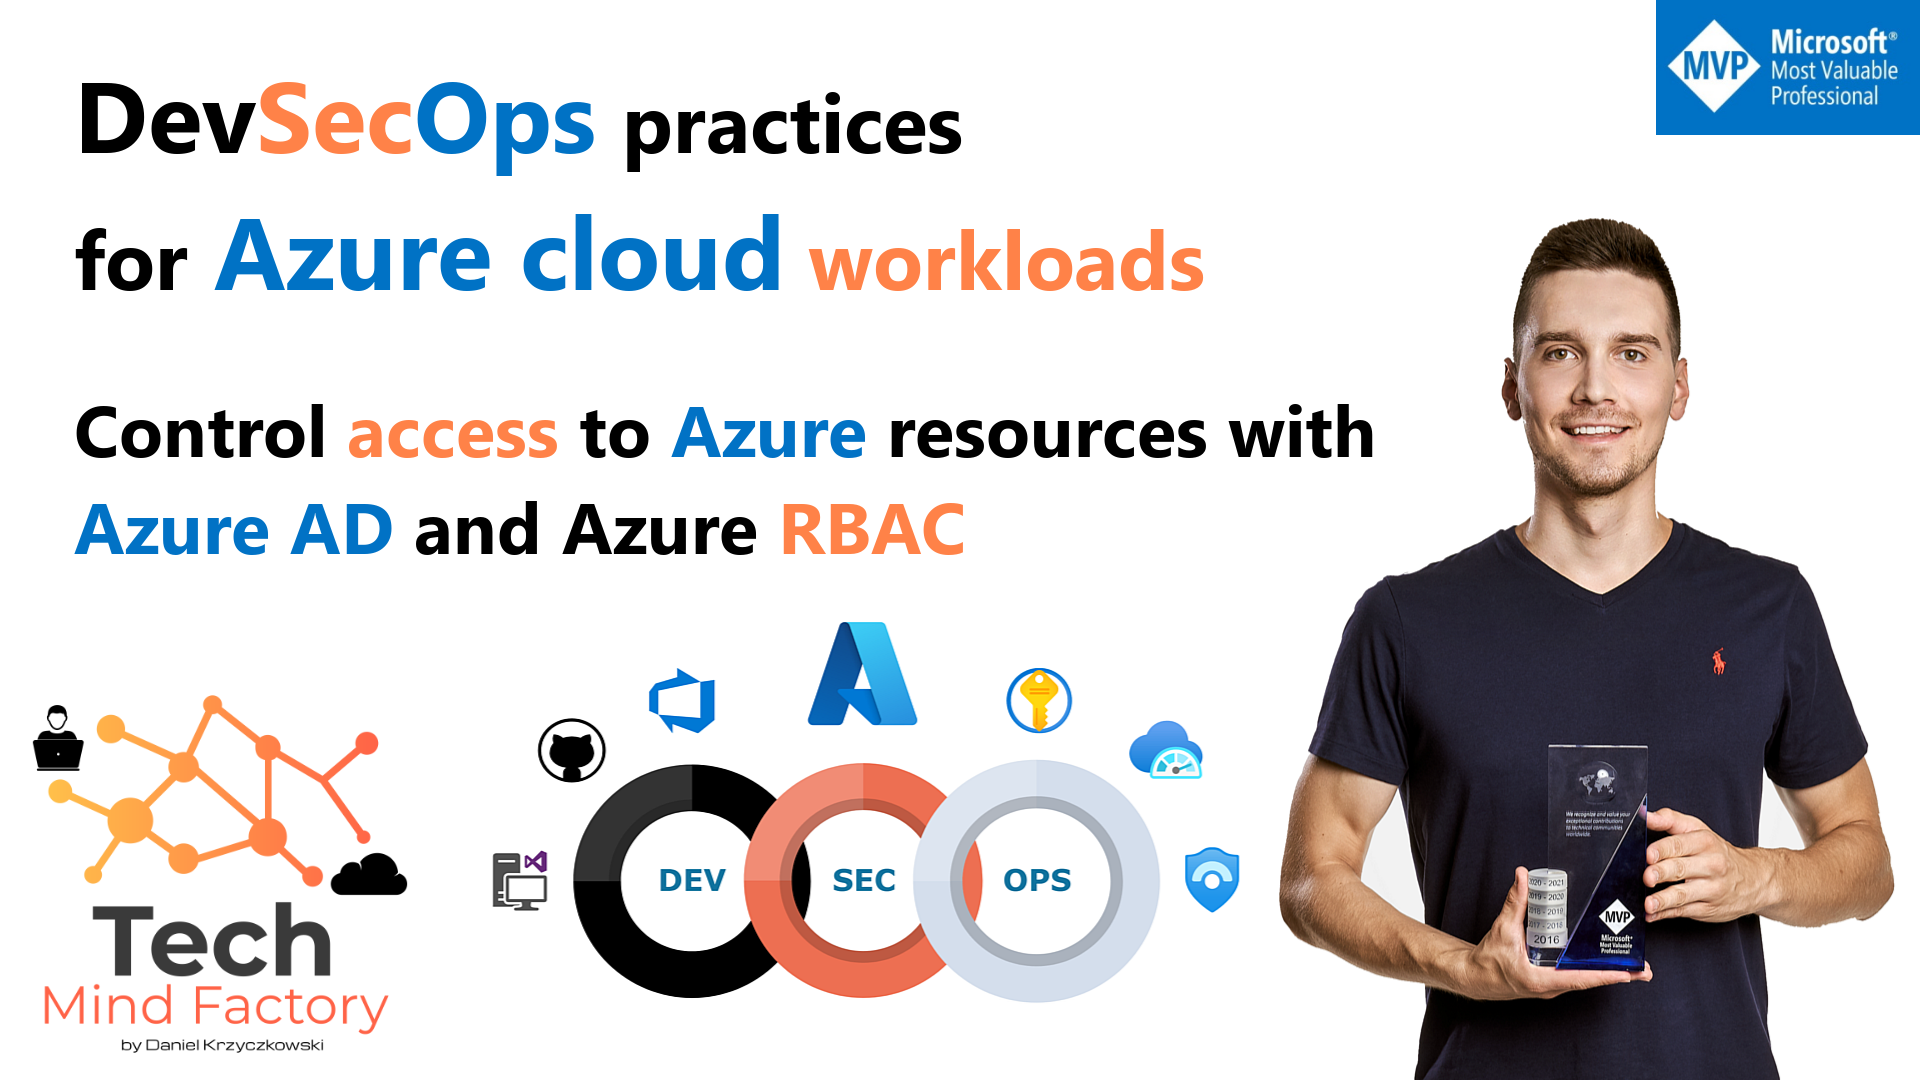
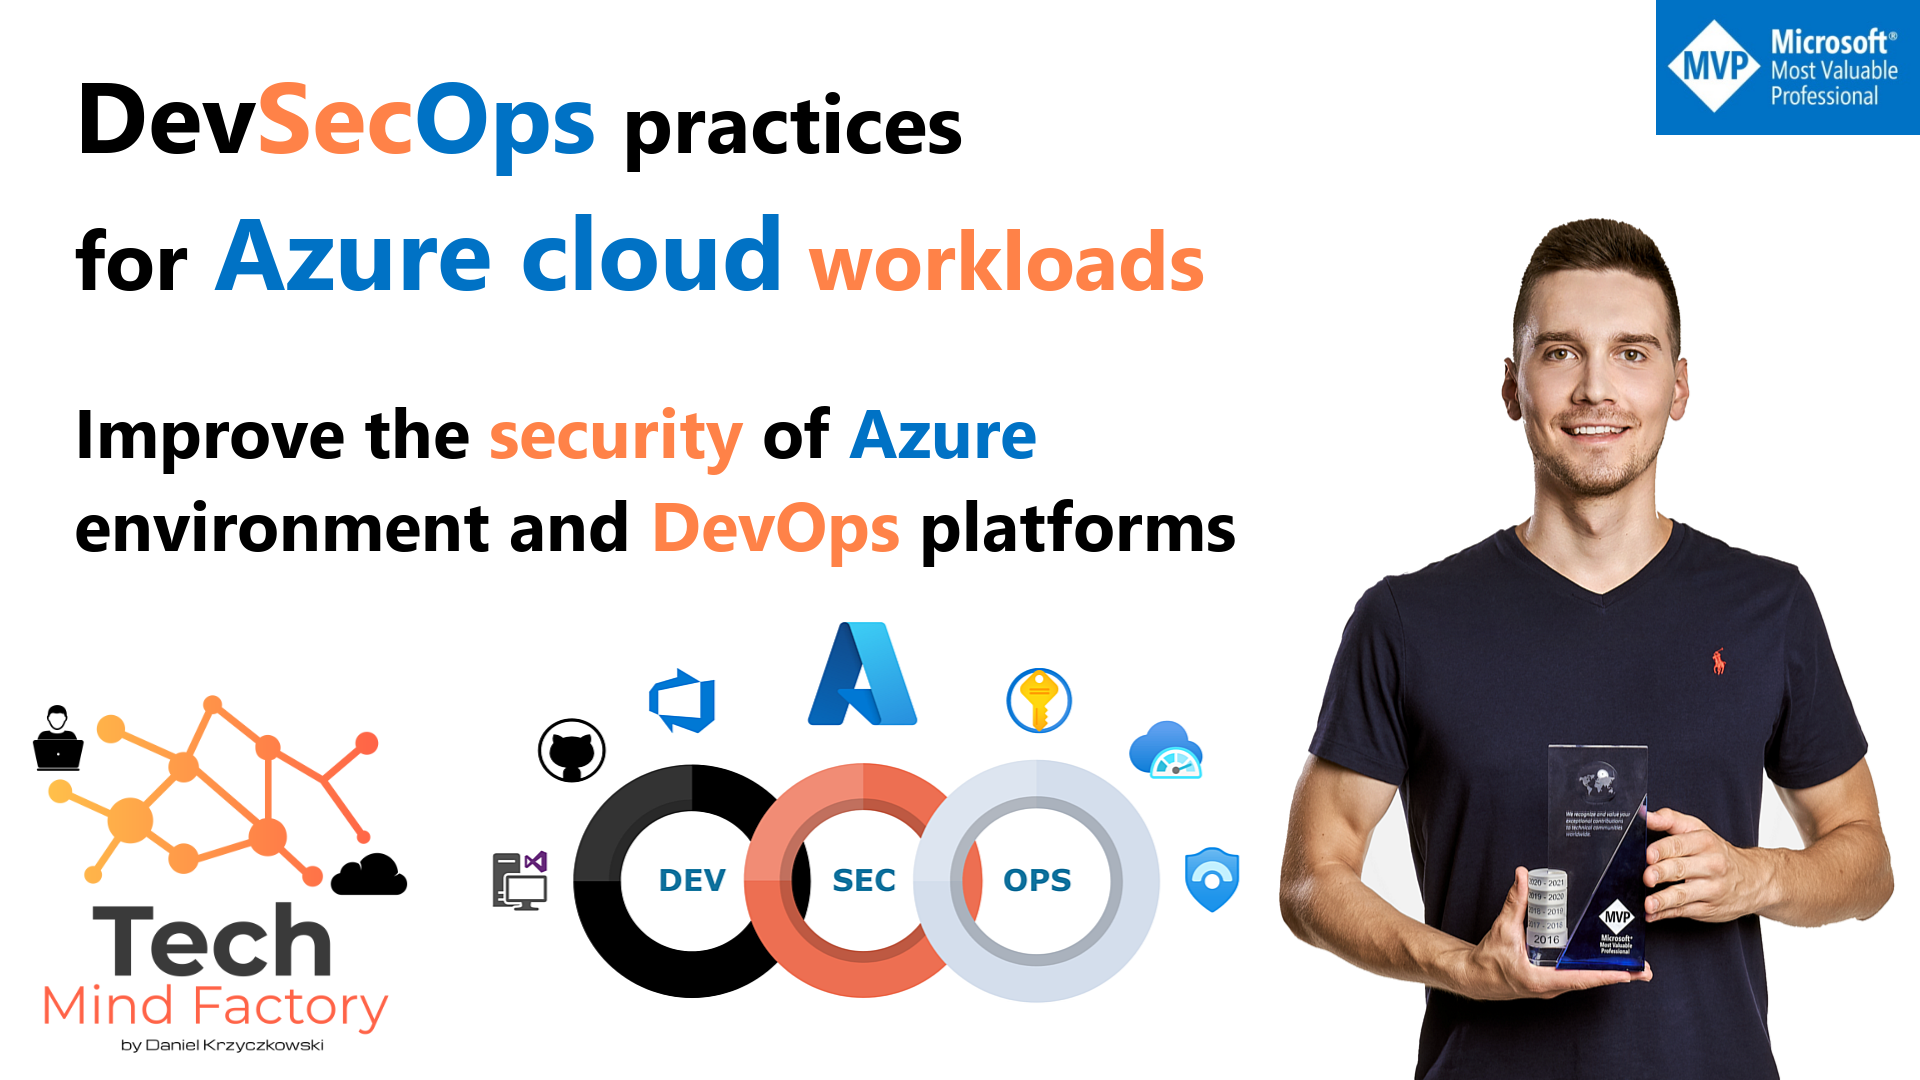
Add new article

Changed region(s): [[0.0312, 0.3667, 0.7188, 0.4278], [0.0312, 0.4583, 0.6562, 0.5194]]

diff --git a/_posts/2022-10-28-DevSecOpsOnAzure-ImproveSecWithDefender.md b/_posts/2022-10-28-DevSecOpsOnAzure-ImproveSecWithDefender.md
@@ -1,0 +1,337 @@
+---
+title: "DevSecOps on Azure - part9: Improve the security of Azure environment and DevOps platforms"
+excerpt: "This article presents how to monitor the security posture of Azure cloud environments and DevOps platforms"
+header:
+  image: /images/devisland/article97/assets/devsecopsazure-improve-sec-with-defender-01.png
+---
+
+<p align="center">
+<img src="/images/devisland/article97/assets/devsecopsazure-improve-sec-with-defender-01.png?raw=true" alt="DevSecOps on Azure - part9"/>
+</p>
+
+# Introduction
+
+This is the next article from the series called *DevSecOps practices for Azure cloud workloads*. security monitoring with Microsoft Defender for Cloud and DevOps. Keeping application solutions on Azure secure requires constant security monitoring and evaluation of threats from source code up to running workloads. In this article, I would like to focus on the Azure cloud environment and security of DevOps platforms - GitHub and Azure DevOps.
+
+
+# Understand Microsoft Defender for cloud
+
+Defender for Cloud is a solution for cloud security posture management (CSPM) and cloud workload protection (CWP). It is used to secure native Azure resources, on-premises resources, and other cloud providers resources (Amazon AWS and Google GCP). Defender for Cloud finds weak spots across Azure services configuration, helps strengthen the overall security posture of the cloud environment, and can protect application workloads from evolving threats.
+
+Defender for Cloud addresses the most urgent security challenges:
+
+1. Limited security skills and specialists
+2. Increased rate of sophisticated attacks
+3. Dynamically changing workloads
+
+
+## Defend cloud environment in Azure with Microsoft Defender features
+
+First of all, it is worth knowing that not all Defender for Cloud features are paid.
+
+### Free, core features of Microsoft Defender for Cloud
+
+There are two core, free features of Microsoft Defender for Cloud:
+
+1. Security recommendations - hints that should be followed to make Azure workloads more secure.
+2. Azure Security Benchmark Policies - Azure Policy Initiative with security policies for Azure resources.
+
+<p align="center">
+<img src="/images/devisland/article97/assets/devsecopsazure-improve-sec-with-defender-02.PNG?raw=true" alt="Image not found"/>
+</p>
+
+Recommendations are tailored to the particular security concerns found in the Azure workloads. Defender for Cloud not only provides information about security posture but also specific instructions for how to improve it. Recommendations help reduce the attack surface across each Azure resource. Free pricing tier is enabled on all current Azure subscriptions when Defender for Cloud is opened in the Azure portal for the first time or enabled through the API.
+
+Azure Security Benchmark Azure Policy Initiative is automatically assigned to all Defender for Cloud registered subscriptions. The built-in initiative contains only Audit policies to not break current solutions and configurations. Only recommendations are displayed. Defender for Cloud policies are visible in the Azure portal Policies section. Security compliance can be verified on specific Azure resources.
+
+<p align="center">
+<img src="/images/devisland/article97/assets/devsecopsazure-improve-sec-with-defender-03.PNG?raw=true" alt="Image not found"/>
+</p>
+
+#### Use Azure Policies together with Microsoft Defender for cloud 
+
+As mentioned above, Azure Security Benchmark policies are automatically assigned to subscriptions connected to Defender for Cloud. Many different policies help improve security posture. Some of them provide information on how to manually fix the security issues:
+
+<p align="center">
+<img src="/images/devisland/article97/assets/devsecopsazure-improve-sec-with-defender-04.PNG?raw=true" alt="Image not found"/>
+</p>
+
+Some of those policies provide a direct "quick fix" option to fix the issue with security posture of the Azure resource:
+
+<p align="center">
+<img src="/images/devisland/article97/assets/devsecopsazure-improve-sec-with-defender-05.PNG?raw=true" alt="Image not found"/>
+</p>
+
+As mentioned before, the built-in Azure Policy Initiative contains only Audit policies to not break current solutions and configurations.
+
+Defender for Cloud continually assesses Azure resources and subscriptions for security issues. It then aggregates all the findings into a single secure score.
+It shows the general, current security situation. 
+The higher the score, the lower the identified risk level.
+
+<p align="center">
+<img src="/images/devisland/article97/assets/devsecopsazure-improve-sec-with-defender-06.png?raw=true" alt="Image not found"/>
+</p>
+
+
+### Standard (paid) Defender for Cloud tier features
+
+To take advantage of advanced security management and threat detection capabilities, a standard, paid tier has to be enabled. Below there are some features of the paid plan:
+
+1. Vulnerability assessment for virtual machines, container registries, and SQL resources
+2. Multicloud security (AWS, GCP)
+3. Hybrid (on-premises) security 
+4. Compliance tracking with a range of standards (PCI, SOC)
+
+<p align="center">
+<img src="/images/devisland/article97/assets/devsecopsazure-improve-sec-with-defender-07.PNG?raw=true" alt="Image not found"/>
+</p>
+
+<p align="center">
+<img src="/images/devisland/article97/assets/devsecopsazure-improve-sec-with-defender-08.PNG?raw=true" alt="Image not found"/>
+</p>
+
+Here is an example of security protection for containers- images in the Azure Container Registry are constantly scanned and if the vulnerability is found, we are informed about this fact together with recommendations on how to mitigate it:
+
+<p align="center">
+<img src="/images/devisland/article97/assets/devsecopsazure-improve-sec-with-defender-09.PNG?raw=true" alt="Image not found"/>
+</p>
+
+## Security alerts and incidents
+
+Defender for Cloud and Defender for Cloud plans will generate alerts when threats in our cloud, hybrid, or on-premises environment are detected. Each alert provides details of affected resources, issues, and remediation recommendations. Defender for Cloud leverages the [MITRE Attack Matrix](https://attack.mitre.org/matrices/enterprise/) to associate alerts with their perceived intent, helping formalize security domain knowledge.
+
+Defender for Cloud assigns a severity to alerts to help us prioritize how we attend to each alert. Severity is based on how confident Defender for Cloud is in the:
+
+* Finding/analytic used to issue the alert
+* Confidence level that there was malicious intent behind the activity that led to the alert
+
+A security incident is a collection of related alerts. Incidents provide you with a single view of an attack and its related alerts so that you can quickly understand actions an attacker took, and the resources affected.
+
+Here is an example alert that will be sent to our mailbox when a new threat is detected:
+
+<p align="center">
+<img src="/images/devisland/article97/assets/devsecopsazure-improve-sec-with-defender-10.PNG?raw=true" alt="Image not found"/>
+</p>
+
+Under *Security alerts* tab in the Azure Portal we can access all alerts and read about details:
+
+<p align="center">
+<img src="/images/devisland/article97/assets/devsecopsazure-improve-sec-with-defender-11.PNG?raw=true" alt="Image not found"/>
+</p>
+
+Next, we can take actions to mitigate security risk and solve the problem:
+
+<p align="center">
+<img src="/images/devisland/article97/assets/devsecopsazure-improve-sec-with-defender-12.PNG?raw=true" alt="Image not found"/>
+</p>
+
+
+# Defender for DevOps
+
+At the moment of writing this article, Defender for DevOps is in preview, it was announced during Microsoft Ignite 2022. I would like to write about it and some really interesting features when it comes to secure DevOps and the security of DevOps platforms - GitHub and Azure DevOps.
+
+Until now it was not so obvious how to monitor source code repositories, CI/CD pipelines, and general security and access in DevOps platforms like Azure DevOps or GitHub. This is where Defender for DevOps can help. We can connect Azure DevOps or GitHub (and more platforms in the future) to Defender for DevOps and monitor holistic security posture of them.
+
+Key capabilities in Defender for DevOps include:
+
+* Unified visibility into DevOps security posture
+* Strengthen cloud resource configurations throughout the development lifecycle
+* Prioritize remediation of critical issues in source code
+
+We can add GitHub and Azure DevOps environments, customize DevOps workbooks to show desired metrics, view our guides and give feedback, and configure pull request annotations. We can review findings like:
+
+1. Code scanning findings - number of code vulnerabilities and misconfigurations identified in the connected repositories.
+2. OSS vulnerabilities – number of open source dependency vulnerabilities identified in the repositories (only available for GitHub for now).
+3. Exposed secrets - number of secrets identified in the repositories.
+4. Pull request annotation status - to show whether Pull Request annotations are enabled for the repository (available only for Azure DevOps now).
+5. Repositories - lists with connected repositories from GitHub and Azure DevOps platforms.
+
+
+## Connect DevOps platforms to Defender for DevOps
+
+There is well-written documentation on how to connect DevOps platforms with Defender for DevOps:
+
+1. [Connect GitHub to Microsoft Defender for Cloud](https://learn.microsoft.com/en-us/azure/defender-for-cloud/quickstart-onboard-github)
+2. [Connect Azure DevOps to Microsoft Defender for Cloud](https://learn.microsoft.com/en-us/azure/defender-for-cloud/quickstart-onboard-devops)
+
+### Microsoft Security DevOps extension
+
+During the Microsoft Ignite, there was the announcement that [GitHub Advanced Security will be available for Azure DevOps](https://devblogs.microsoft.com/devops/integrate-security-into-your-developer-workflow-with-github-advanced-security-for-azure-devops/#github-advanced-security). It will provide secret scanning, dependency scanning, and code scanning. At the moment of writing this article, this feature is in private preview.
+
+However, when I was searching in the Defender for Cloud documentation, I found new extension that can be used with Azure DevOps and GitHub called *Microsoft Security DevOps*. This extension provides great capabilities to increase the security posture of our source code repositories together with code quality and security. Microsoft Security DevOps is data-driven with portable configurations that enable deterministic execution across multiple environments.
+
+With Microsoft Security DevOps we can:
+
+1. Detect secrets in our source code repository
+2. We can scan Azure infrastructure source code (like ARM, Bicep, Terraform)
+3. Container image scanning
+4. Source code quality scanning
+
+With this extension, all security incidents are reported back to the Microsoft Defender for DevOps (from Azure DevOps and GitHub).
+
+Here is an example of secret scanning in Azure DevOps:
+
+<p align="center">
+<img src="/images/devisland/article97/assets/devsecopsazure-improve-sec-with-defender-14.PNG?raw=true" alt="Image not found"/>
+</p>
+
+Here is the security report in the Defender for DevOps dashboard:
+
+<p align="center">
+<img src="/images/devisland/article97/assets/devsecopsazure-improve-sec-with-defender-13.PNG?raw=true" alt="Image not found"/>
+</p>
+
+It is really helpful because Security Teams receive detailed information where the secret was detected and they can take actions to inform developers about this fact:
+
+<p align="center">
+<img src="/images/devisland/article97/assets/devsecopsazure-improve-sec-with-defender-17.PNG?raw=true" alt="Image not found"/>
+</p>
+
+Now there is a question - what about GitHub Advanced Security for Azure DevOps and GitHub? 
+
+I am not sure yet but in my personal opinion it will be possible to utilize both options:
+
+1. Microsoft Security DevOps extension with Azure DevOps and GitHub
+2. GitHub Advanced Security with Azure DevOps and GitHub
+
+The case is that the two above can report security issues to the Defender for DevOps. Now let me provide some more details.
+
+#### Microsoft Security DevOps Azure DevOps extension
+
+The extension is available for free to be installed from [Azure DevOps marketplace](https://marketplace.visualstudio.com/items?itemName=ms-securitydevops.microsoft-security-devops-azdevops). Once it is installed in our Azure DevOps organization, we can start using it.
+
+Here is an example job from my sample pipeline to detect secrets:
+
+```YAML
+jobs:
+  - job: 'Build'
+    displayName: "Build Web API"
+    pool:
+      vmImage: 'windows-latest'
+    steps:
+
+    - task: UseDotNet@2
+      displayName: 'Install .NET 6 SDK'
+      inputs:
+        packageType: 'sdk'
+        version: 6.0.x
+    # Here we scan the code with Microsoft Security DevOps:
+    - task: MicrosoftSecurityDevOps@1
+      displayName: 'Microsoft Security DevOps scan'
+      inputs:
+        categories: 'secrets'
+    
+    - task: DotNetCoreCLI@2
+      displayName: Restore NuGet packages
+      inputs:
+        command: 'restore'
+        projects: '**/*.csproj'
+      
+    - task: DotNetCoreCLI@2
+      displayName: Build project
+      inputs:
+        command: 'build'
+        projects: '**/*.csproj'
+
+    - task: DotNetCoreCLI@2
+      displayName: Publish project
+      inputs:
+        command: publish
+        arguments: '--configuration Release --output $(Build.ArtifactStagingDirectory)'
+        projects: '**/*.csproj'
+        zipAfterPublish: true
+      
+    - task: PublishBuildArtifacts@1
+      displayName: Publish package ready for deployment
+      inputs:
+        PathtoPublish: '$(Build.ArtifactStagingDirectory)'
+        artifactName: 'drop'
+```
+
+Currently, it works only with *vmImage: 'windows-latest'* agents - this is important because if you use Linux agents, no scanning output will be available.
+
+Microsoft Security DevOps uses the following Open Source tools:
+
+| Name | Language | License |
+|--|--|--|
+| [Bandit](https://github.com/PyCQA/bandit) | Python | [Apache License 2.0](https://github.com/PyCQA/bandit/blob/master/LICENSE) |
+| [BinSkim](https://github.com/Microsoft/binskim) | Binary--Windows, ELF | [MIT License](https://github.com/microsoft/binskim/blob/main/LICENSE) |
+| [ESlint](https://github.com/eslint/eslint) | JavaScript | [MIT License](https://github.com/eslint/eslint/blob/main/LICENSE) |
+| [Credscan](detect-credential-leaks.md) | Credential Scanner (also known as CredScan) is a tool developed and maintained by Microsoft to identify credential leaks such as those in source code and configuration files <br> common types: default passwords, SQL connection strings, Certificates with private keys | Not Open Source |
+| [Template Analyzer](https://github.com/Azure/template-analyzer) | ARM template, Bicep file | [MIT License](https://github.com/Azure/template-analyzer/blob/main/LICENSE.txt) |
+| [Terrascan](https://github.com/accurics/terrascan) | Terraform (HCL2), Kubernetes (JSON/YAML), Helm v3, Kustomize, Dockerfiles, Cloud Formation | [Apache License 2.0](https://github.com/accurics/terrascan/blob/master/LICENSE) |
+| [Trivy](https://github.com/aquasecurity/trivy) | container images, file systems, git repositories | [Apache License 2.0](https://github.com/aquasecurity/trivy/blob/main/LICENSE) |
+
+Please note that the extension utilizes *Credential Scanner* which originally was part of [*Microsoft Security Code Analysis (MSCA) extension*](https://learn.microsoft.com/en-us/azure/security/develop/security-code-analysis-overview) which will be retired on December 31, 2022.
+
+With *Credential Scanner* we can detect secrets in our source code during the build process and we do not have to utilize GitHub Advanced Security features. Here is the link to [official documentation to read more](https://learn.microsoft.com/en-us/azure/defender-for-cloud/azure-devops-extension).
+
+
+#### Microsoft Security DevOps GitHub action
+
+Action is available for free to be used. We have to add action to our workflow like in the example below:
+
+```YAML
+name: MSDO windows-latest
+on:
+  push:
+    branches: [ main ]
+  pull_request:
+    branches: [ main ]
+  workflow_dispatch:
+
+jobs:
+  sample:
+
+    # MSDO runs on windows-latest and ubuntu-latest.
+    # macos-latest supporting coming soon
+    runs-on: windows-latest
+
+  steps:
+  - uses: actions/checkout@v2
+
+  - uses: actions/setup-dotnet@v1
+    with:
+      dotnet-version: |
+        5.0.x
+        6.0.x
+
+    # Run analyzers
+    - name: Run Microsoft Security DevOps Analysis
+      uses: microsoft/security-devops-action@preview
+      id: msdo
+
+  # Upload alerts to the Security tab
+  - name: Upload alerts to Security tab
+    uses: github/codeql-action/upload-sarif@v1
+    with:
+      sarif_file: ${{ steps.msdo.outputs.sarifFile }}
+```
+
+Once the scanning is completed, we can access it under *Security > Code scanning alerts* tab. Here is the link to [official documentation to read more](https://learn.microsoft.com/en-us/azure/defender-for-cloud/github-action).
+
+It is worth mentioning that this action does not utilize *Credential Scanner* mentioned above for Azure DevOps. The reason why is probably the fact that GitHub natively supports secret scanning and detection for public repositories and GitHub Advanced Security for private repositories.
+
+
+### Infrastructure scanning example
+
+As mentioned before, we can also scan Azure infrastructure source code. Once we enable it, the report is generated in the separate tab:
+
+<p align="center">
+<img src="/images/devisland/article97/assets/devsecopsazure-improve-sec-with-defender-15.PNG?raw=true" alt="Image not found"/>
+</p>
+
+<p align="center">
+<img src="/images/devisland/article97/assets/devsecopsazure-improve-sec-with-defender-16.PNG?raw=true" alt="Image not found"/>
+</p>
+
+This is a comprehensive extension for DevSecOps! I am also waiting for dedicated connector for Microsoft Sentinel to connect Defender for DevOps.
+
+# Summary
+
+In this article, we discussed how to improve the security posture of the application environment in the Azure cloud with Defender for Cloud and how to monitor DevOps platforms (GitHub and Azure DevOps) with Defender for DevOps. In the next, last article we will see how to detect and respond to security events in Azure with Microsoft Sentinel.
+
+
+*If you like my articles, and find them helpful, please buy me a coffee:*
+
+<a href="https://www.buymeacoffee.com/techmindfactory" target="_blank"><img src="https://cdn.buymeacoffee.com/buttons/v2/arial-red.png" alt="Buy Me A Coffee" style="height: 60px !important;width: 217px !important;" ></a>
